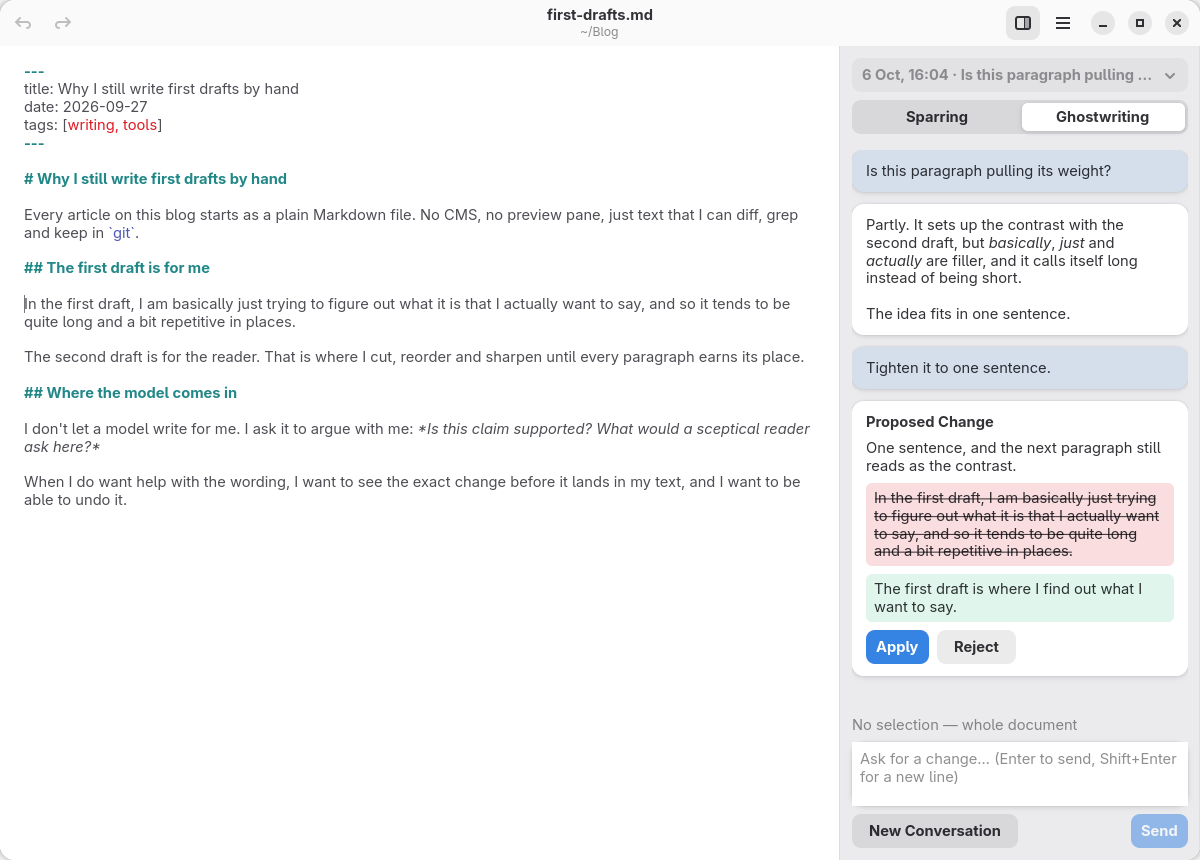
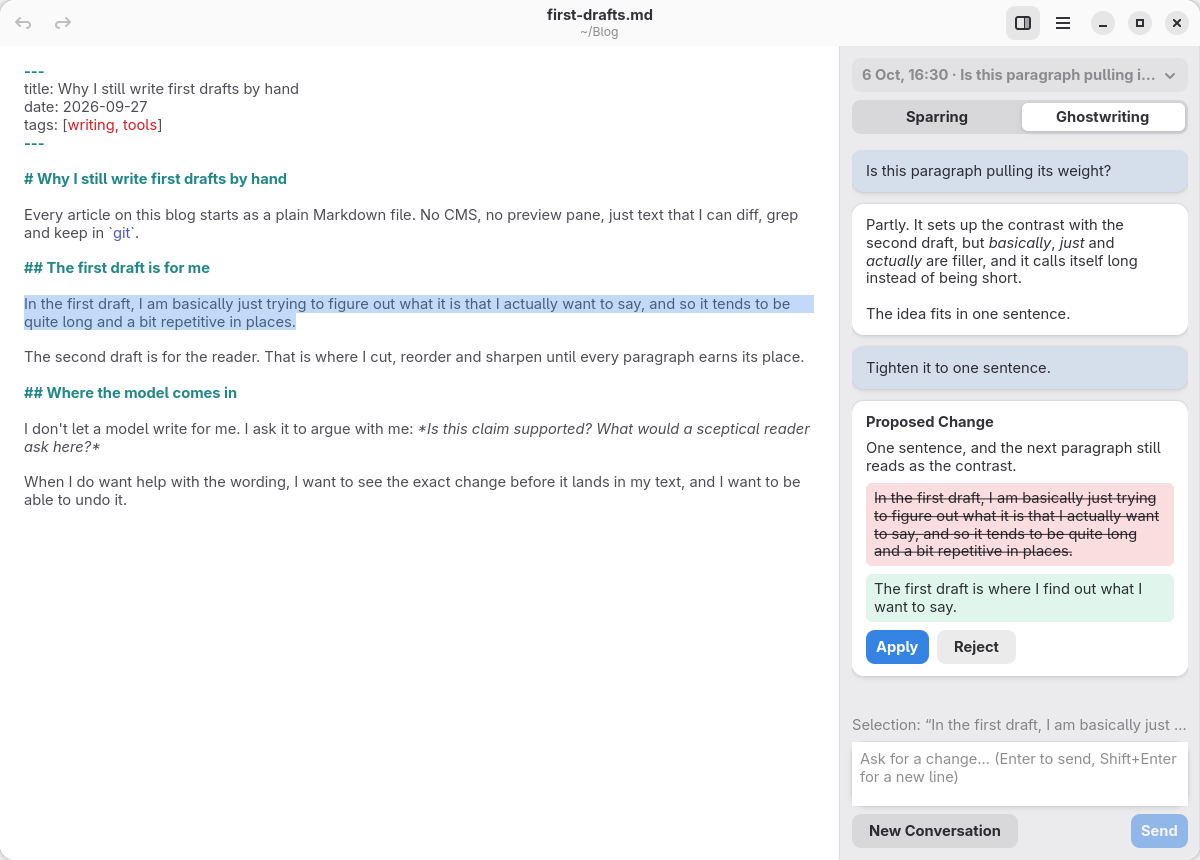
Keep the paragraph selected in the README screenshots
The compositor announces its primary selection to the window soon after it
is shown, and GTK takes that for another app claiming PRIMARY and deselects
the editor. The screenshot example selected the paragraph before the
announcement arrived, so the last screenshots showed no selection and the
chat's "Tighten it to one sentence" had nothing to refer to. The example now
waits for the announcement before selecting.

Changed region(s): [[0.0, 0.3326, 0.6783, 0.393], [0.7092, 0.8163, 0.9558, 0.8465], [0.7708, 0.0605, 0.8017, 0.0907]]

diff --git a/examples/screenshot.rs b/examples/screenshot.rs
@@ -5,7 +5,7 @@
 //!
 //! Usage: screenshot <output.png> [--dark]
 
-use std::cell::RefCell;
+use std::cell::{Cell, RefCell};
 use std::fs;
 use std::path::{Path, PathBuf};
 use std::process::ExitCode;
@@ -135,6 +135,17 @@ fn main() -> ExitCode {
                 adw::ColorScheme::ForceLight
             });
             let main = MainWindow::new(app);
+            // The compositor announces its primary selection to the window soon after it is
+            // shown. GTK takes that for another app claiming PRIMARY and deselects the editor,
+            // so the paragraph is only selected once the announcement is in.
+            let primary_announced = Rc::new(Cell::new(false));
+            main.window()
+                .primary_clipboard()
+                .connect_changed(glib::clone!(
+                    #[strong]
+                    primary_announced,
+                    move |_| primary_announced.set(true)
+                ));
             // A little taller than the default, so the whole conversation fits.
             main.window().set_default_size(1200, 860);
             main.present();
@@ -143,7 +154,8 @@ fn main() -> ExitCode {
             let post = post.clone();
             let output = output.clone();
             glib::idle_add_local_once(move || {
-                *result.borrow_mut() = stage(&main, &post).and_then(|()| save(&main, &output));
+                *result.borrow_mut() =
+                    stage(&main, &post, &primary_announced).and_then(|()| save(&main, &output));
                 app.quit();
             });
         }
@@ -161,7 +173,7 @@ fn main() -> ExitCode {
 }
 
 /// Opens the post, selects a paragraph, and holds one sparring and one ghostwriting exchange.
-fn stage(main: &Rc<MainWindow>, post: &Path) -> Result<(), String> {
+fn stage(main: &Rc<MainWindow>, post: &Path, primary_announced: &Cell<bool>) -> Result<(), String> {
     main.load_path(post)?;
     let root = main.window().clone().upcast::<gtk::Widget>();
     let widgets = widgets_under(&root);
@@ -189,6 +201,7 @@ fn stage(main: &Rc<MainWindow>, post: &Path) -> Result<(), String> {
         .ok_or("no Send button")?
         .clone();
 
+    pump_until(|| primary_announced.get())?;
     let buffer = editor.buffer();
     let text = buffer.text(&buffer.start_iter(), &buffer.end_iter(), true);
     let start = text
